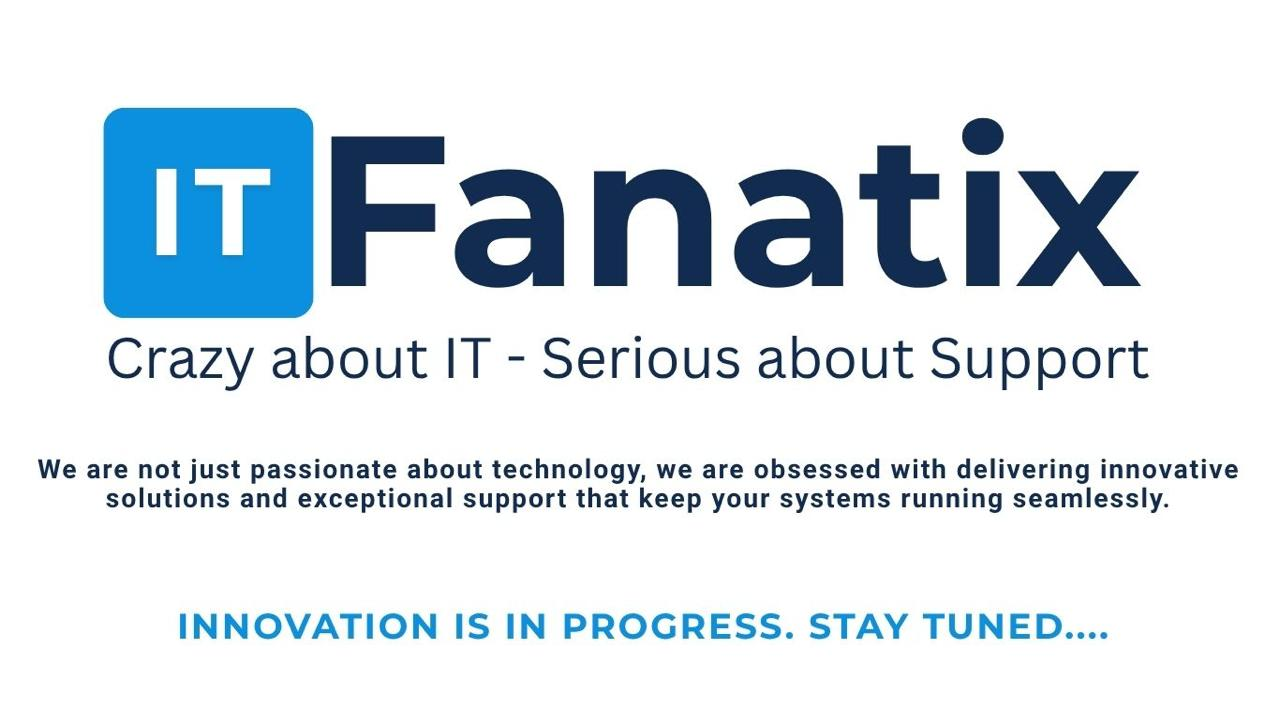
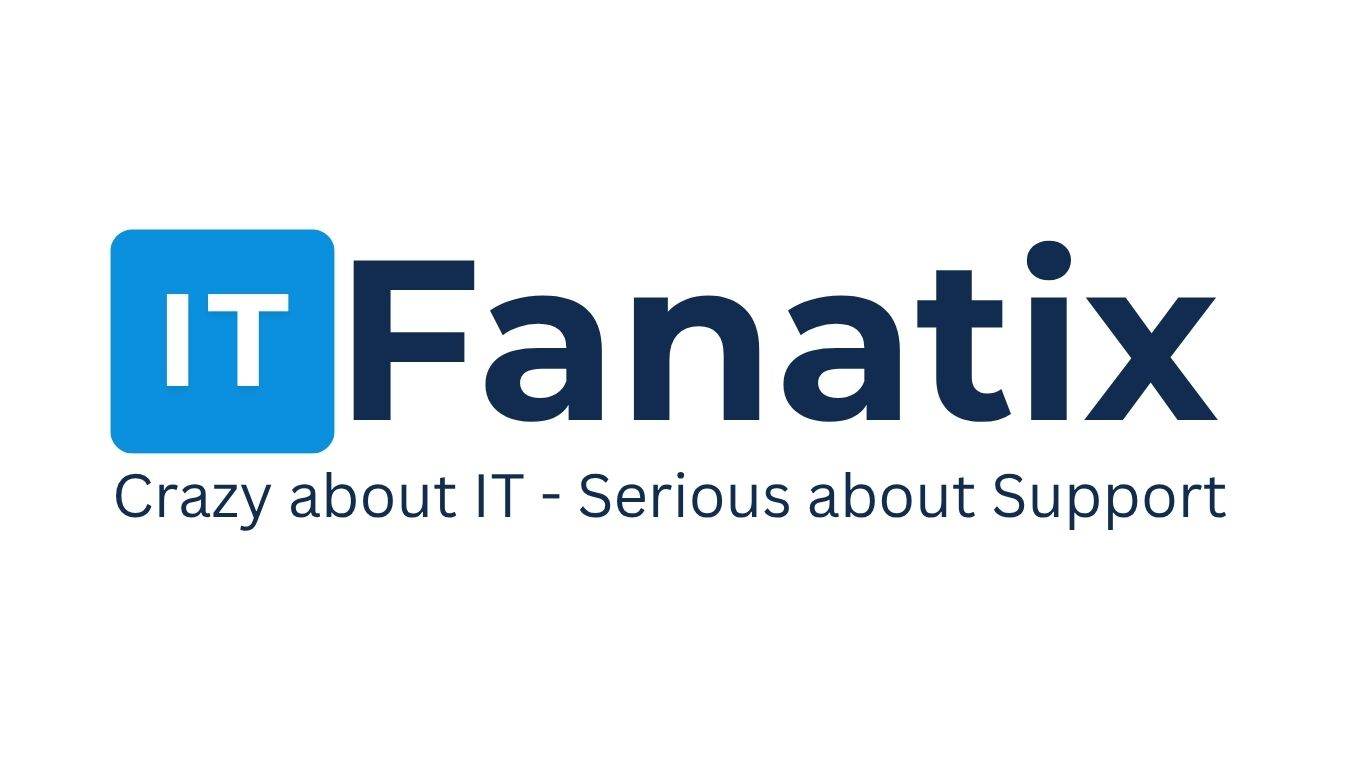
Layout

Changed region(s): [[0.0312, 0.1224, 0.9688, 0.7344], [0.125, 0.8261, 0.875, 0.8873]]

diff --git a/index.html b/index.html
@@ -3,9 +3,75 @@
 <head>
   <meta charset="UTF-8" />
   <meta name="viewport" content="width=device-width, initial-scale=1.0" />
-  <title>IT Fanatix</title>
+  <title>IT Fanatix | Innovative IT Support</title>
+  <link href="https://fonts.googleapis.com/css2?family=Inter:wght@400;600;700&display=swap" rel="stylesheet">
+  <style>
+    html, body {
+      margin: 0;
+      padding: 0;
+      height: 100%;
+      font-family: 'Inter', sans-serif;
+      background-color: #f9f9f9;
+      color: #333;
+      display: flex;
+      align-items: center;
+      justify-content: center;
+    }
+
+    .container {
+      max-width: 960px;
+      padding: 1rem;
+      text-align: center;
+      display: flex;
+      flex-direction: column;
+      justify-content: center;
+    }
+
+    img {
+      max-width: 100%;
+      height: auto;
+      margin-bottom: 1rem;
+    }
+
+    h1 {
+      font-size: 2rem;
+      color: #002e5d;
+      margin: 0.3rem 0;
+    }
+
+    p {
+      font-size: 1rem;
+      margin: 0.3rem 0;
+    }
+
+    .highlight {
+      color: #0078d7;
+      font-weight: 600;
+      margin-top: 0.8rem;
+    }
+
+    footer {
+      margin-top: 1rem;
+      font-size: 0.8rem;
+      color: #777;
+    }
+
+    @media (max-height: 700px) {
+      p, h1 {
+        font-size: 0.95rem;
+      }
+      .highlight {
+        font-size: 0.95rem;
+      }
+    }
+  </style>
 </head>
 <body>
-  <img src="itfanatix.jpg" alt="ITFanatix" style="width:100%; max-width:800px;">
+  <div class="container">
+    <img src="itfanatix.jpg" alt="IT Fanatix Logo" />
+    <p>We are not just passionate about technology, we are <strong>obsessed</strong> with delivering innovative solutions and exceptional support that keep your systems running seamlessly.</p>
+    <p class="highlight">INNOVATION IS IN PROGRESS. STAY TUNED….</p>
+    <footer>&copy; 2025 IT Fanatix. All rights reserved.</footer>
+  </div>
 </body>
 </html>
